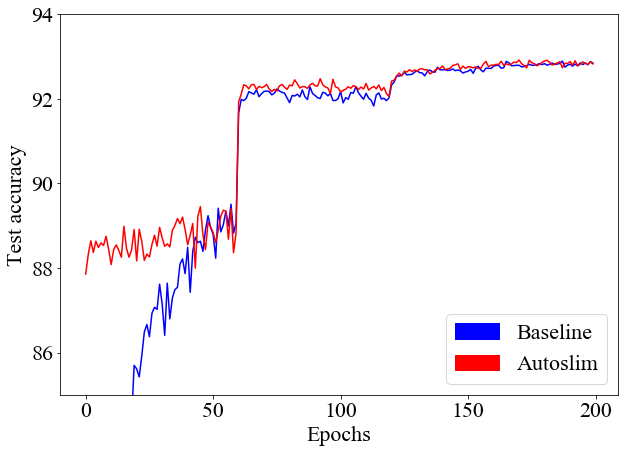
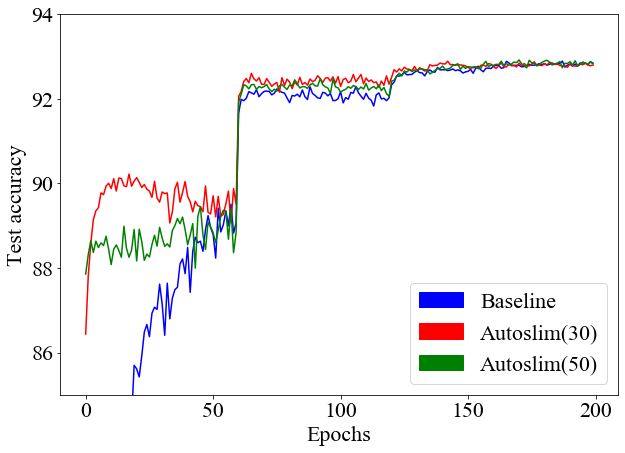
new results

diff --git a/README.md b/README.md
@@ -34,29 +34,30 @@ python train_w_slimming.py --arch Mobilev2 --slimmable True --weight_decay 4e-5
 ```
 |             |  Accuracy |  FLOPS (M)  |  Params (M) | Model |
 |:-----------:|:---------:|:-----------:|:-----------:|-------|
-|   Baseline  |   92.84   |    82.56    |     2.27    |[download](http://drive.google.com/uc?export=view&id=1JY7ST4S-VOaHLs5w-J6i-Hr3DEn3Or3C)  |
-|   Autoslim  |   92.83   |    40.83    |     0.93    |[download](http://drive.google.com/uc?export=view&id=17-KcV3ADUIhf1wtRDKGzUsmWh5m517qV)  |
+|   Baseline  |   92.84   |    82.56    |     2.27    |[download](http://drive.google.com/uc?export=view&id=17-KcV3ADUIhf1wtRDKGzUsmWh5m517qV)  |
+|   Autoslim(50)  |   92.83   |    40.83    |     0.93    |[download](http://drive.google.com/uc?export=view&id=17-KcV3ADUIhf1wtRDKGzUsmWh5m517qV)  |
+|   Autoslim(30)  |   92.47   |    24.34    |     0.52    |[download](http://drive.google.com/uc?export=view&id=1Wn4WagMuEqXYJYIbj8rCHaPPwi2EOxSN)  |
+
 <p align="center">
   <img src="figs/mobilev2_plots.png" width="300">
   <img src="figs/mobilev2_depths.png" width="500"><br>
   <b>An example of slimmed network via Autoslim.</b>  
 </p>
-
 ### WResNet40-4
 ```
 python train_w_slimming.py --arch WResnet-40-4 --slimmable True --weight_decay 5e-4
 ```
 |             |  Accuracy |  FLOPS (M)  |  Params (M) |Model |
 |:-----------:|:---------:|:-----------:|:-----------:|-------|
-|   Baseline  |   95.72   |    82.56    |     2.27    |[download](http://drive.google.com/uc?export=view&id=1UdG2JvSm3gnbSTz7MaLT3EdtOLEHiB9_)  |
-|   Autoslim  |   95.58   |    40.79    |     1.05    |[download](http://drive.google.com/uc?export=view&id=1IOYK6OGL38s6xfpSqAoXIVLyg2sA9HfE)  |
+|   Baseline  |   95.72   |    1306.97    |     8.97    |[download](http://drive.google.com/uc?export=view&id=1UdG2JvSm3gnbSTz7MaLT3EdtOLEHiB9_)  |
+|   Autoslim(50)  |   95.58   |    646.74    |     5.68    |[download](http://drive.google.com/uc?export=view&id=1IOYK6OGL38s6xfpSqAoXIVLyg2sA9HfE)  |
+|   Autoslim(30)  |   95.49   |    474.69    |     3.81    |[download](http://drive.google.com/uc?export=view&id=1HG0bp-mk9x3gUl_ThU1xthezgAbPOh4c)  |
 
 <p align="center">
   <img src="figs/wrn404_plots.png" width="300">
   <img src="figs/wrn404_depths.png" width="500"><br>
   <b>An example of slimmed network via Autoslim.</b>  
 </p>
-
 ### ResNet56
 ```
 python train_w_slimming.py --arch Resnet-56 --slimmable True --weight_decay 5e-4
@@ -64,7 +65,8 @@ python train_w_slimming.py --arch Resnet-56 --slimmable True --weight_decay 5e-4
 |             |  Accuracy |  FLOPS (M)  |  Params (M) |Model |
 |:-----------:|:---------:|:-----------:|:-----------:|-------|
 |   Baseline  |   93.91   |   127.93    |    0.8600   |[download](http://drive.google.com/uc?export=view&id=1dSYUBu1gsToWgBS9M1r4l7o9dwWYOS4D)  |
-|   Autoslim  |   93.59   |    62.64    |    0.4964   |[download](http://drive.google.com/uc?export=view&id=1TqQILaIJ7NpV1Q-Pv3kn3gNIHF9Bk2nY)  |
+|   Autoslim(50)  |   93.59   |    62.64    |    0.4964   |[download](http://drive.google.com/uc?export=view&id=1TqQILaIJ7NpV1Q-Pv3kn3gNIHF9Bk2nY)  |
+|   Autoslim(30)  |   92.67   |    37.52    |    0.3208   |[download](http://drive.google.com/uc?export=view&id=1WnNBjOfTpzfSYuRvZALxwdApX95yaUtJ)  |
 
 <p align="center">
   <img src="figs/res56_plots.png" width="300">
